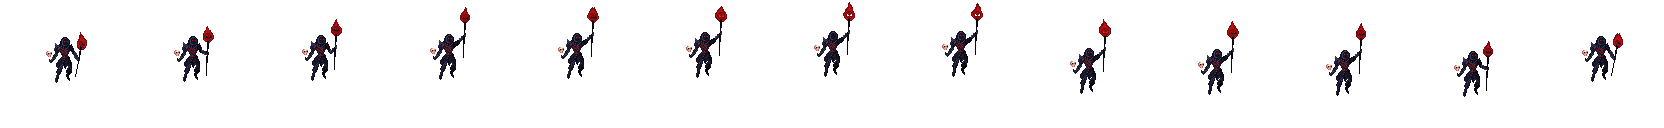
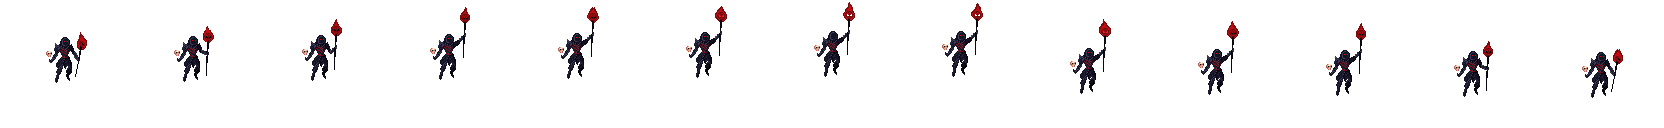
implemented necromancer's animation and states with vfxs

Changed region(s): [[0.9375, 0.2812, 1.0, 0.75]]

diff --git a/lib/actors/enemies/elites/necromancer/necromancer.dart b/lib/actors/enemies/elites/necromancer/necromancer.dart
@@ -1,3 +1,5 @@
+import 'package:experimental_battle_ai/actors/enemies/elites/necromancer/fire_field.dart';
+import 'package:experimental_battle_ai/actors/enemies/elites/necromancer/fire_strike.dart';
 import 'package:experimental_battle_ai/actors/enemies/elites/necromancer/skull.dart';
 import 'package:experimental_battle_ai/actors/enemies/enemy.dart';
 import 'package:experimental_battle_ai/actors/state.dart';
@@ -43,7 +45,7 @@ class Necromancer extends Enemy {
   void onMount() {
     super.onMount();
     speed = 200;
-    setState(shoot);
+    setState(castFromSky);
   }
 
   @override
@@ -79,18 +81,20 @@ class Necromancer extends Enemy {
     castFromGroundAnimation = game.createSpriteAnimation(
       'actors/enemies/elites/necromancer(128x128)/cast_from_ground.png', 
       AnimationConfig(
-        amount: 9, 
+        amount: 13, 
         stepTime: 0.2, 
-        textureSize: Vector2.all(128)
+        textureSize: Vector2.all(128),
+        loop: false
       )
-    );
+    ); // TODO: fix animation
 
     castFromSkyAnimation = game.createSpriteAnimation(
       'actors/enemies/elites/necromancer(128x128)/cast_from_sky.png', 
       AnimationConfig(
-        amount: 9, 
+        amount: 13, 
         stepTime: 0.2, 
-        textureSize: Vector2.all(128)
+        textureSize: Vector2.all(128),
+        loop: true
       )
     );
 
@@ -150,9 +154,8 @@ class Necromancer extends Enemy {
         setAnimationState(NecromancerAnimationState.shoot,
           onFrames: {
             12: () {
-              print("necro's pos: $position");
               add(Skull(
-                position: absolutePosition,
+                position: _skullPoint,
                 player: player
               ));
             }
@@ -162,9 +165,33 @@ class Necromancer extends Enemy {
     );
 
     castFromSky = State('cast from sky',
+      onEnter: () {
+        setAnimationState(NecromancerAnimationState.castFromSky,
+          onFrames: {
+            9: () {
+              add(FireStrike(
+                position: player.position,
+                player: player
+              ));
+            }
+          }
+        );
+      },
     );
 
     castFromGround = State('cast from ground',
+      onEnter: () {
+        setAnimationState(NecromancerAnimationState.castFromGround,
+          onFrames: {
+            9: () {
+              add(FireField(
+                position: size / 2,
+                player: player
+              ));
+            }
+          }
+        );
+      },
     );
 
     hurt.onEnter = () {

diff --git a/lib/actors/enemies/elites/necromancer/skull.dart b/lib/actors/enemies/elites/necromancer/skull.dart
@@ -11,7 +11,7 @@ class Skull extends SpriteAnimationComponent with HasGameReference<ExperimentalB
   final Player player;
   late final Vector2 direction;
   Vector2 velocity = Vector2.zero();
-  static const double speed = 200;
+  static const double speed = 400;
 
   @override
   void onLoad() {
@@ -33,11 +33,7 @@ class Skull extends SpriteAnimationComponent with HasGameReference<ExperimentalB
   @override
   void onMount() {
     super.onMount();
-    print('player\'s position in skull: ${player.position}');
-    print('position of skull in onMount: $position');
-    direction = (player.position - position).normalized();
-    print('direction: $direction');
-    
+    direction = (player.position - absolutePosition).normalized();
   }
 
   @override
@@ -45,12 +41,10 @@ class Skull extends SpriteAnimationComponent with HasGameReference<ExperimentalB
     super.update(dt);
     velocity = direction * speed;
     position.add(velocity * dt);
-      print('position of skull: $position');
 
-    // if (isOutOfCamera(this)) {
-    //   print("Removed!");
-    //   removeFromParent();
-    // }
+    if (isOutOfCamera(this)) {
+      removeFromParent();
+    }
   }
 
   bool isOutOfCamera(PositionComponent component) {

diff --git a/lib/actors/enemies/elites/necromancer/fire_strike.dart b/lib/actors/enemies/elites/necromancer/fire_strike.dart
@@ -1,0 +1,45 @@
+import 'package:experimental_battle_ai/actors/player.dart';
+import 'package:experimental_battle_ai/experimental_battle.dart';
+import 'package:flame/components.dart';
+
+class FireStrike extends SpriteAnimationComponent with HasGameReference<ExperimentalBattle> {
+  FireStrike({
+    required super.position,
+    required this.player
+  }): super(anchor: Anchor.bottomCenter);
+
+  final Timer duration = Timer(0.25, autoStart: false);
+  final Player player;
+
+  @override
+  void onLoad() {
+    super.onLoad();
+    priority = 10;
+
+    animation = game.createSpriteAnimation(
+      'vfx/elites/necromancer/fire_strike.png', 
+      AnimationConfig(
+        amount: 3, 
+        stepTime: 0.1, 
+        textureSize: Vector2(32, 48),
+        loop: false
+      )
+    );
+
+    animationTicker!.onComplete = () {
+      duration.start();
+    };
+
+    scale = Vector2(2, 4);
+
+    position.add(player.position - absolutePosition);
+  }
+
+  @override
+  void update(double dt) {
+    super.update(dt);
+    duration.update(dt);
+
+    if (duration.finished) removeFromParent();
+  }
+}

diff --git a/lib/actors/enemies/elites/necromancer/fire_field.dart b/lib/actors/enemies/elites/necromancer/fire_field.dart
@@ -1,0 +1,45 @@
+import 'package:experimental_battle_ai/actors/player.dart';
+import 'package:experimental_battle_ai/experimental_battle.dart';
+import 'package:flame/components.dart';
+
+class FireField extends SpriteAnimationComponent with HasGameReference<ExperimentalBattle> {
+  FireField({
+    required super.position,
+    required this.player
+  }): super(anchor: Anchor.center);
+
+  final Timer duration = Timer(5, autoStart: false);
+  final Player player;
+
+  @override
+  void onLoad() {
+    super.onLoad();
+    priority = 10;
+
+    animation = game.createSpriteAnimation(
+      'vfx/elites/necromancer/fire_field.png', 
+      AnimationConfig(
+        amount: 4, 
+        stepTime: 0.1, 
+        textureSize: Vector2.all(32),
+      )
+    );
+
+    scale = Vector2.all(2);
+    position.add(player.position - absolutePosition);
+  }
+
+  @override
+  void onMount() {
+    super.onMount();
+    duration.start();
+  }
+
+  @override
+  void update(double dt) {
+    super.update(dt);
+    duration.update(dt);
+
+    if (duration.finished) removeFromParent();
+  }
+}

diff --git a/lib/actors/enemies/bosses/golem/golem.dart b/lib/actors/enemies/bosses/golem/golem.dart
@@ -135,18 +135,33 @@ class Golem extends Enemy {
     };
 
     shoot = State('shoot',
+      onEnter: () {
+        setAnimationState(GolemAnimationState.shoot);
+      },
     );
 
     shootLaser = State('shoot laser',
+      onEnter: () {
+        setAnimationState(GolemAnimationState.shootLaser);
+      },
     );
 
     melee  = State('melee',
+      onEnter: () {
+        setAnimationState(GolemAnimationState.melee);
+      },
     );
 
     ironBody = State('iron body',
+      onEnter: () {
+        setAnimationState(GolemAnimationState.ironBody);
+      },
     );
 
     stasis = State('stasis',
+      onEnter: () {
+        setAnimationState(GolemAnimationState.stasis);
+      },
     );
 
     hurt.onEnter = () {
